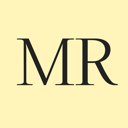
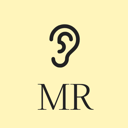
Déplacer l'oreille de la une vers la vignette du lecteur
Isaure la voulait dans le lecteur du téléphone, pas sur la page. La une
revient donc à son état précédent, et la vignette de l'écran verrouillé
porte l'oreille au-dessus des lettres « MR ».

La composition est resserrée pour remplir le carré : à 64 px sur un
écran verrouillé, c'est la silhouette qui porte, pas le texte. Vérifié
lisible à 128 px.

Changed region(s): [[0.125, 0.1875, 0.9375, 0.875]]

diff --git a/src/App.vue b/src/App.vue
@@ -148,24 +148,7 @@ onMounted(() => addEventListener('keydown', onKey))
           <p class="imprint">{{ t.author }}</p>
           <LangSwitch />
         </div>
-        <!-- Le titre et l'oreille se répondent, comme sur l'image de partage. -->
-        <div class="une">
-          <h1 class="title">{{ t.work }}</h1>
-          <svg
-            class="oreille"
-            viewBox="0 0 32 32"
-            aria-hidden="true"
-            focusable="false"
-            fill="none"
-            stroke="currentColor"
-            stroke-width="1.9"
-            stroke-linecap="round"
-            stroke-linejoin="round"
-          >
-            <path d="M9.5 13.5a6.8 6.8 0 1 1 13.6 0c0 5.6-5.6 6-5.6 9.9a3.5 3.5 0 1 1-7 0" />
-            <path d="M19.6 13.5a3 3 0 0 0-6 0v1.4a2.4 2.4 0 1 1 0 4.8" />
-          </svg>
-        </div>
+        <h1 class="title">{{ t.work }}</h1>
       </header>
 
       <DrawBar v-if="catalog" @draw="draw" />
@@ -249,22 +232,6 @@ onMounted(() => addEventListener('keydown', onKey))
   margin: 0;
   font: 400 0.92rem/1 var(--sans);
   color: var(--ink);
-}
-
-/* Le titre et l'oreille sur une même ligne de fond : l'oreille ne doit pas ajouter de
-   hauteur à la une, qui est déjà le bloc le plus coûteux sur un téléphone. */
-.une {
-  display: flex;
-  align-items: flex-end;
-  justify-content: space-between;
-  gap: clamp(16px, 4vw, 48px);
-}
-.oreille {
-  flex: none;
-  width: clamp(42px, 9vw, 148px);
-  height: clamp(42px, 9vw, 148px);
-  color: var(--ink);
-  animation: settle 0.7s cubic-bezier(0.22, 1, 0.3, 1) 0.1s both;
 }
 
 /* Le titre en Ortica Light : la seule chose qui occupe vraiment la page. */

diff --git a/src/mr.template.html b/src/mr.template.html
@@ -9,30 +9,39 @@
         font-weight: 300;
       }
       * { margin: 0; }
-      /* Vignette du lecteur système : un carré plein, lisible réduit à 64 px sur un écran
-         verrouillé. D'où les deux lettres seules, très grandes, sans rien autour. */
+      /* Vignette du lecteur système : un carré plein, qui doit encore se lire réduit à 64 px
+         sur un écran verrouillé. L'oreille au-dessus des deux lettres, rien d'autre : à cette
+         taille la silhouette porte plus que le texte. */
       body {
         width: 512px;
         height: 512px;
         display: flex;
+        flex-direction: column;
         align-items: center;
         justify-content: center;
+        gap: 10px;
         background: #fff5bb;
         color: #222222;
         font-family: 'Ortica Linear', Georgia, serif;
         font-weight: 300;
         -webkit-font-smoothing: antialiased;
       }
+      svg { width: 252px; height: 252px; }
       p {
-        font-size: 268px;
+        font-size: 148px;
         line-height: 1;
-        letter-spacing: -0.02em;
+        letter-spacing: -0.015em;
         /* La fonte porte ses propres approches : on recale optiquement le bloc. */
-        transform: translate(6px, -10px);
+        transform: translateX(3px);
       }
     </style>
   </head>
   <body>
+    <svg viewBox="0 0 32 32" fill="none" stroke="currentColor" stroke-width="1.9"
+         stroke-linecap="round" stroke-linejoin="round">
+      <path d="M9.5 13.5a6.8 6.8 0 1 1 13.6 0c0 5.6-5.6 6-5.6 9.9a3.5 3.5 0 1 1-7 0" />
+      <path d="M19.6 13.5a3 3 0 0 0-6 0v1.4a2.4 2.4 0 1 1 0 4.8" />
+    </svg>
     <p>MR</p>
   </body>
 </html>

diff --git a/CLAUDE.md b/CLAUDE.md
@@ -333,9 +333,10 @@ sait ni quel verset passe ni comment l'arrêter sans rallumer. Les vignettes son
 Vite (donc hachées) et leur adresse est rendue absolue — le système les charge hors de la page.
 
 **L'oreille** apparaît à trois endroits, toujours le même tracé : le favicon (`index.html`),
-l'image de partage (`src/og.template.html`) et la une (`App.vue`), où elle répond au titre sur
-la même ligne de fond. Posée en `flex-end` à côté du titre, elle n'ajoute **aucune hauteur** à
-la une — ce qui compte, c'est le bloc le plus coûteux sur un téléphone.
+l'image de partage (`src/og.template.html`) et la vignette du lecteur (`src/mr.template.html`),
+au-dessus des lettres « MR ». **Pas dans le site lui-même** : je l'avais posée dans la une, à
+côté du titre, Isaure l'a fait retirer. Elle la veut dans le lecteur du téléphone, pas sur la
+page.
 
 **Images** : `node scripts/images.mjs` refait l'aperçu de partage et les vignettes du lecteur.
 Elles sont versionnées pour qu'un déploiement n'ait jamais besoin de Chrome.
